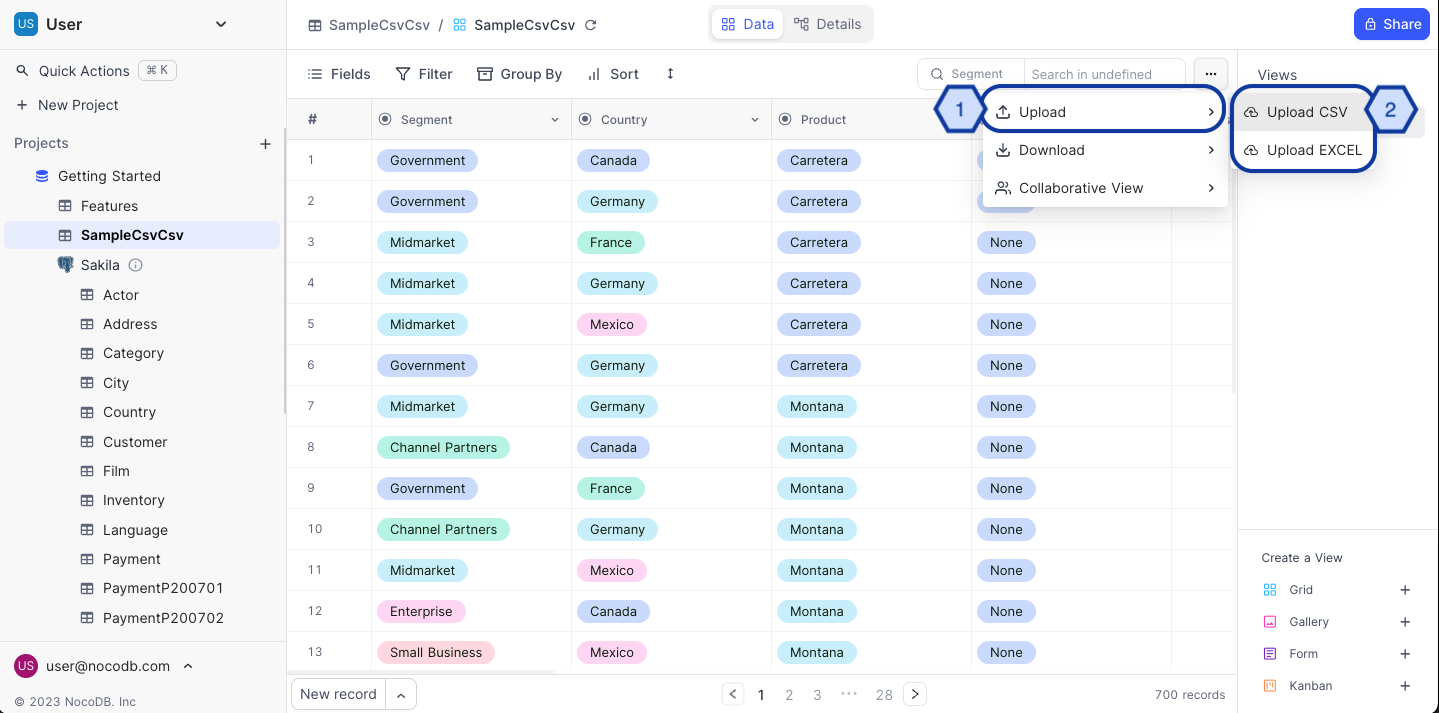
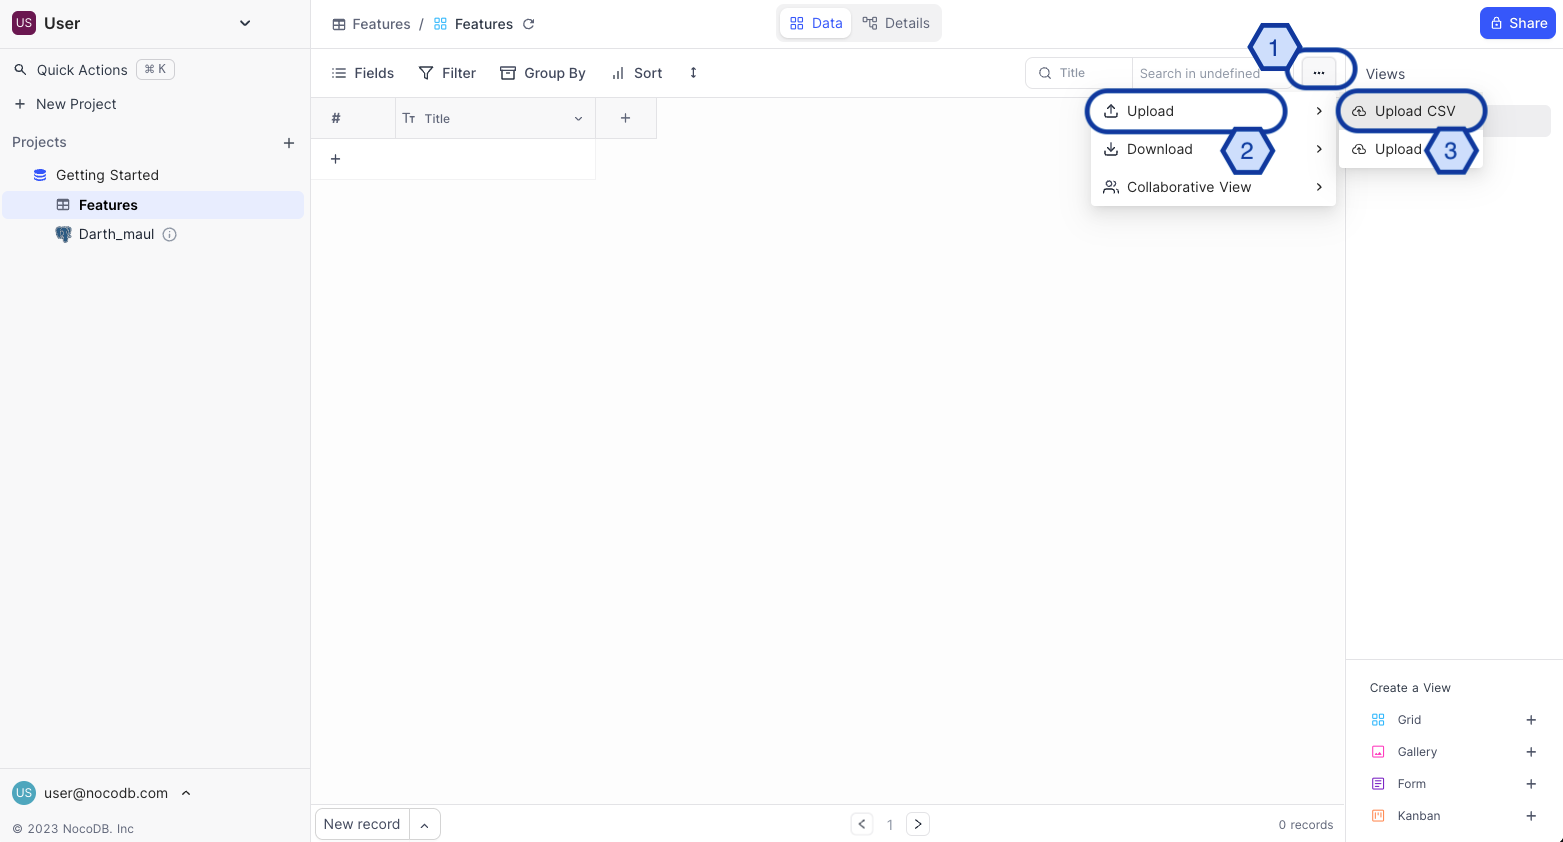
docs: upload csv

diff --git a/packages/noco-docs/docs/050.tables/040.import-data-into-existing-table.md b/packages/noco-docs/docs/050.tables/040.import-data-into-existing-table.md
@@ -30,11 +30,11 @@ There are two ways to upload source file:
 3. [Advance Settings](#advance-settings) (optional)
 4. Click on `Import` button.
 
+![image](/img/v2/upload-csv-url.png)
+
 ### Field mapping
-1. Existing column names are listed under `Source column`. New columns identified from the import file under `Destination column`. NocoDB autofill destination column names based on the source column names.
-2. 
-
-
+1. Existing column names are listed under `Source column`. New columns identified from the import file are listed under `Destination column`. NocoDB auto maps destination column names based on the source column names. One can reconfigure mapping by making use of dropdown that appears on clicking destination column. Checkbox is provided to exclude a column from being imported.
+2. Click on `Import` button to start importing the file.
 
 ![image](/img/v2/upload-csv-3.png)
 

diff --git a/packages/noco-docs/docs/050.tables/030.create-table-via-import.md b/packages/noco-docs/docs/050.tables/030.create-table-via-import.md
@@ -57,3 +57,7 @@ There are two ways to upload source file:
 - `Auto select field types` - enabled by default. If checked, field types will be detected. Otherwise, all fields will default to `SingleLineText`.
 - `Use first row as headers` - enabled by default. If checked, the first row will be treated as header row & will be used as field names.
 - `Import data` - enabled by default. If checked, all data will be imported; otherwise, only table will be created.
+
+:::info
+By default, the first column will be chosen as Display Value and cannot be deleted.
+:::
